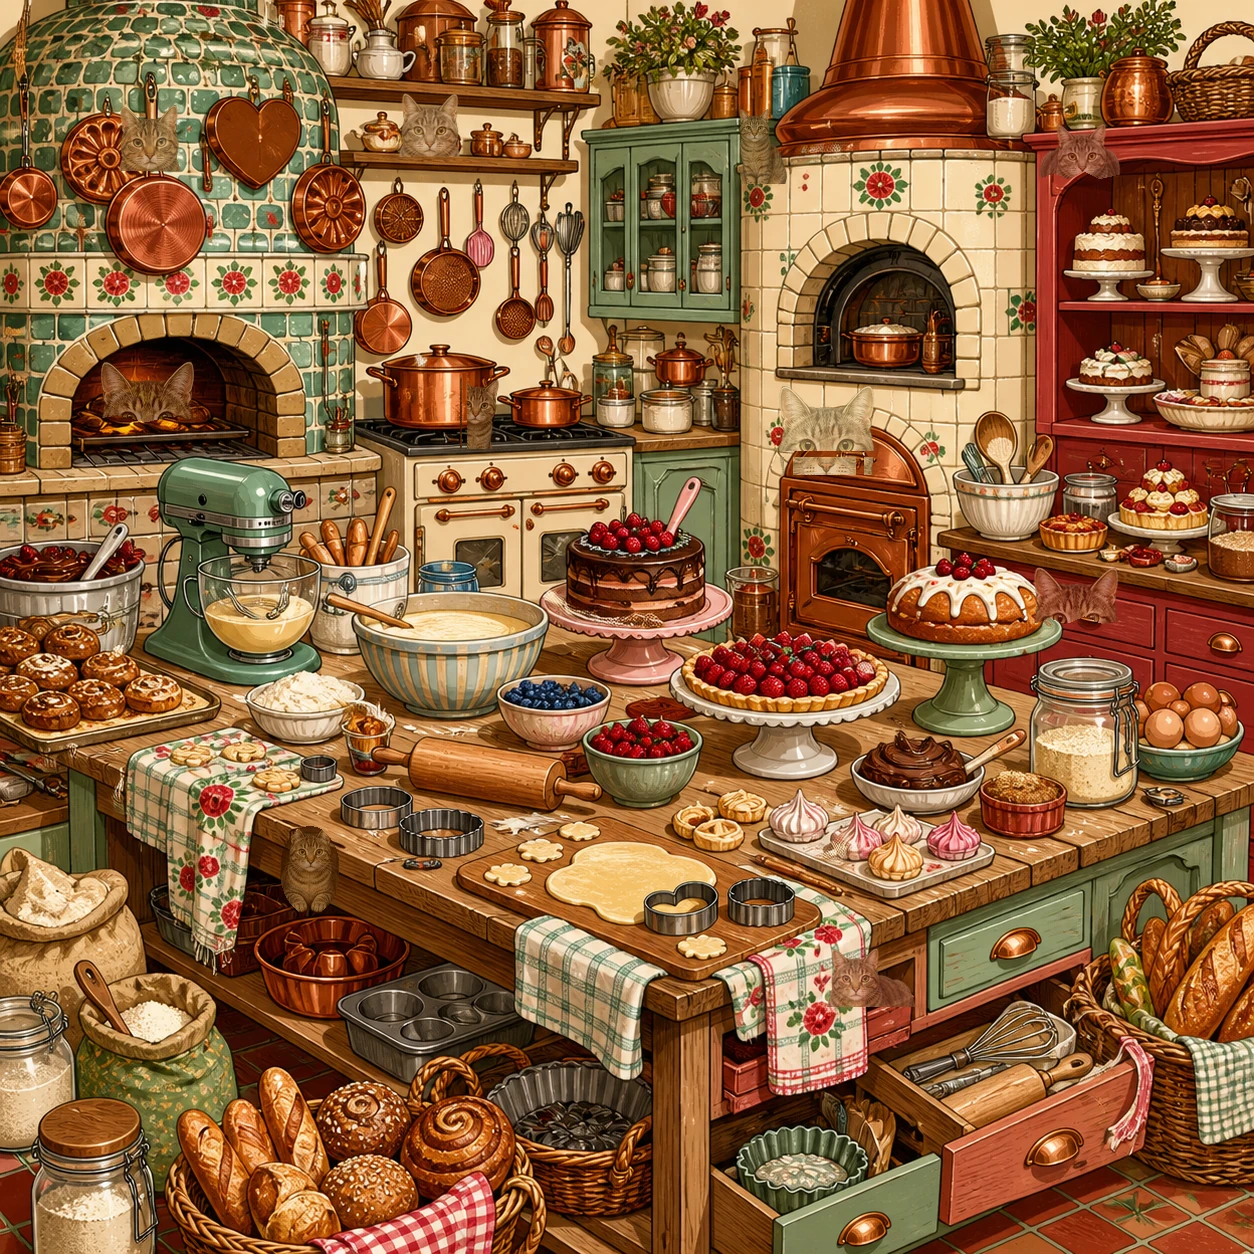
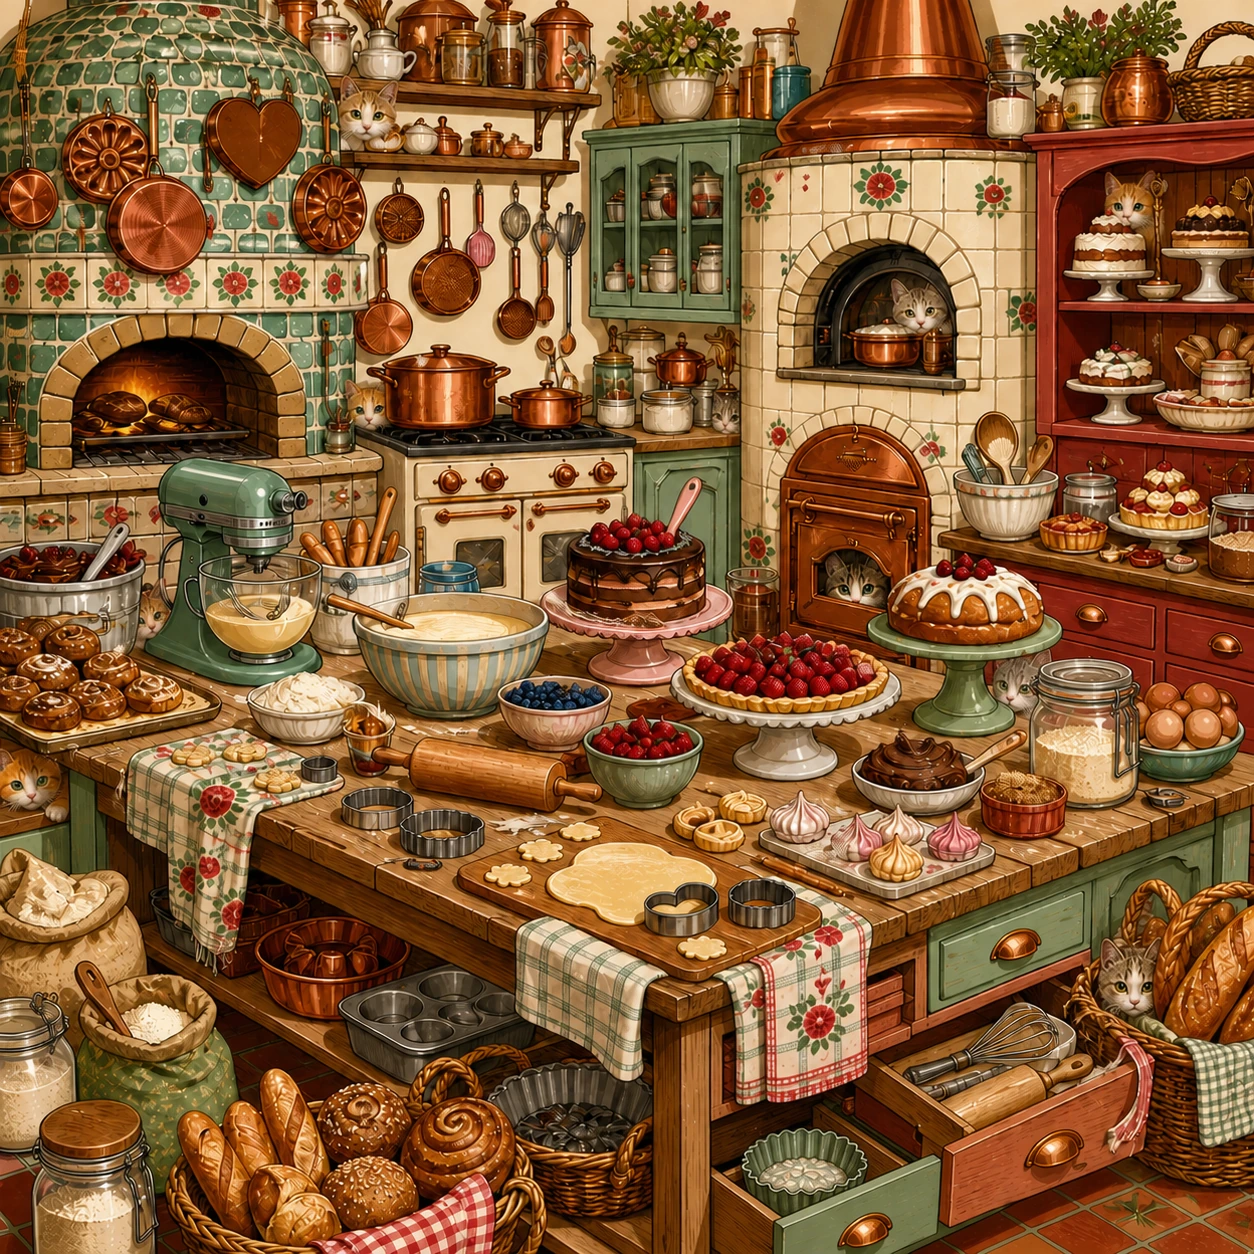
Rebuild review levels 64 to 67

diff --git a/app.js b/app.js
@@ -130,7 +130,7 @@ const levelCatalog = [
   ,{ file: "next-19", name: "Lunar Control Laboratory", isColor: true, cats: [{"x":0.116,"y":0.11,"hitX":0.0387,"hitY":0.0383,"clipX":0.0337,"clipY":0.0333},{"x":0.3413,"y":0.0957,"hitX":0.0399,"hitY":0.0375,"clipX":0.0349,"clipY":0.0325},{"x":0.6077,"y":0.1128,"hitX":0.035,"hitY":0.0419,"clipX":0.03,"clipY":0.0369},{"x":0.8612,"y":0.1248,"hitX":0.0447,"hitY":0.035,"clipX":0.0397,"clipY":0.03},{"x":0.1176,"y":0.3122,"hitX":0.0515,"hitY":0.0363,"clipX":0.0465,"clipY":0.0313},{"x":0.3904,"y":0.3305,"hitX":0.035,"hitY":0.0435,"clipX":0.03,"clipY":0.0385},{"x":0.6595,"y":0.3469,"hitX":0.0519,"hitY":0.0479,"clipX":0.0469,"clipY":0.0429},{"x":0.8589,"y":0.4745,"hitX":0.0471,"hitY":0.0351,"clipX":0.0421,"clipY":0.0301},{"x":0.2388,"y":0.6938,"hitX":0.0355,"hitY":0.0471,"clipX":0.0305,"clipY":0.0421},{"x":0.6862,"y":0.7755,"hitX":0.0483,"hitY":0.0355,"clipX":0.0433,"clipY":0.0305}] }
   ,{ file: "next-20", name: "Lantern Bazaar", isColor: true, cats: [{"x":0.116,"y":0.11,"hitX":0.0387,"hitY":0.0383,"clipX":0.0337,"clipY":0.0333},{"x":0.3413,"y":0.0957,"hitX":0.0399,"hitY":0.0375,"clipX":0.0349,"clipY":0.0325},{"x":0.6077,"y":0.1128,"hitX":0.035,"hitY":0.0419,"clipX":0.03,"clipY":0.0369},{"x":0.8612,"y":0.1248,"hitX":0.0447,"hitY":0.035,"clipX":0.0397,"clipY":0.03},{"x":0.1176,"y":0.3122,"hitX":0.0515,"hitY":0.0363,"clipX":0.0465,"clipY":0.0313},{"x":0.3904,"y":0.3305,"hitX":0.035,"hitY":0.0435,"clipX":0.03,"clipY":0.0385},{"x":0.6595,"y":0.3469,"hitX":0.0519,"hitY":0.0479,"clipX":0.0469,"clipY":0.0429},{"x":0.8589,"y":0.4745,"hitX":0.0471,"hitY":0.0351,"clipX":0.0421,"clipY":0.0301},{"x":0.2388,"y":0.6938,"hitX":0.0355,"hitY":0.0471,"clipX":0.0305,"clipY":0.0421},{"x":0.6862,"y":0.7755,"hitX":0.0483,"hitY":0.0355,"clipX":0.0433,"clipY":0.0305}] }
 ].map(level => {
-  const assetVersion = ["next-01", "next-02", "next-03", "next-04", "next-05", "next-06", "next-07", "next-08"].includes(level.file) ? "?v=reviewed-56-63-v2" : "";
+  const assetVersion = ["next-01", "next-02", "next-03", "next-04", "next-05", "next-06", "next-07", "next-08", "next-09", "next-10", "next-11", "next-12"].includes(level.file) ? "?v=reviewed-56-67-v3" : "";
   return { ...level, image: `assets/levels/${level.file}.webp${assetVersion}`, answer: `assets/levels/${level.file}-answer.webp${assetVersion}` };
 });
 
@@ -143,6 +143,16 @@ const REVIEWED_CATS_59_63 = {
 };
 levelCatalog.forEach(level => {
   if (REVIEWED_CATS_59_63[level.file]) level.cats = REVIEWED_CATS_59_63[level.file];
+});
+
+const REVIEWED_CATS_64_67 = {
+  "next-09": [{"x":0.3206,"y":0.1683,"hitX":0.04,"hitY":0.04,"clipX":0.0303,"clipY":0.0271},{"x":0.7512,"y":0.2887,"hitX":0.04,"hitY":0.04,"clipX":0.0303,"clipY":0.0271},{"x":0.0885,"y":0.3868,"hitX":0.04,"hitY":0.04,"clipX":0.0319,"clipY":0.0287},{"x":0.496,"y":0.5327,"hitX":0.04,"hitY":0.04,"clipX":0.0319,"clipY":0.0287},{"x":0.0885,"y":0.6204,"hitX":0.04,"hitY":0.04,"clipX":0.0335,"clipY":0.0287},{"x":0.4537,"y":0.6754,"hitX":0.04,"hitY":0.04,"clipX":0.0303,"clipY":0.0271},{"x":0.1651,"y":0.7504,"hitX":0.04,"hitY":0.04,"clipX":0.0319,"clipY":0.0271},{"x":0.8054,"y":0.7049,"hitX":0.04,"hitY":0.04,"clipX":0.0319,"clipY":0.0287},{"x":0.0223,"y":0.4641,"hitX":0.04,"hitY":0.04,"clipX":0.0303,"clipY":0.0271},{"x":0.9697,"y":0.5423,"hitX":0.04,"hitY":0.04,"clipX":0.0303,"clipY":0.0271}],
+  "next-10": [{"x":0.4171,"y":0.1986,"hitX":0.04,"hitY":0.04,"clipX":0.0351,"clipY":0.0303},{"x":0.6938,"y":0.2337,"hitX":0.04,"hitY":0.04,"clipX":0.0319,"clipY":0.0287},{"x":0.9306,"y":0.2919,"hitX":0.04,"hitY":0.04,"clipX":0.0303,"clipY":0.0271},{"x":0.1874,"y":0.5255,"hitX":0.04,"hitY":0.04,"clipX":0.0351,"clipY":0.0303},{"x":0.2727,"y":0.4442,"hitX":0.04,"hitY":0.04,"clipX":0.0303,"clipY":0.0271},{"x":0.5534,"y":0.5415,"hitX":0.04,"hitY":0.04,"clipX":0.0335,"clipY":0.0287},{"x":0.1292,"y":0.4904,"hitX":0.04,"hitY":0.04,"clipX":0.0303,"clipY":0.0271},{"x":0.9442,"y":0.6021,"hitX":0.04,"hitY":0.04,"clipX":0.0351,"clipY":0.0319},{"x":0.8254,"y":0.6515,"hitX":0.04,"hitY":0.04,"clipX":0.0303,"clipY":0.0271},{"x":0.3301,"y":0.8708,"hitX":0.04,"hitY":0.04,"clipX":0.0383,"clipY":0.0335}],
+  "next-11": [{"x":0.2911,"y":0.0893,"hitX":0.04,"hitY":0.04,"clipX":0.0351,"clipY":0.0319},{"x":0.8979,"y":0.1651,"hitX":0.04,"hitY":0.04,"clipX":0.0335,"clipY":0.0303},{"x":0.7225,"y":0.2472,"hitX":0.04,"hitY":0.04,"clipX":0.0351,"clipY":0.0319},{"x":0.2943,"y":0.3262,"hitX":0.04,"hitY":0.04,"clipX":0.0319,"clipY":0.0287},{"x":0.5774,"y":0.3357,"hitX":0.04,"hitY":0.04,"clipX":0.0271,"clipY":0.0255},{"x":0.6786,"y":0.4633,"hitX":0.04,"hitY":0.04,"clipX":0.0335,"clipY":0.0303},{"x":0.1204,"y":0.4928,"hitX":0.04,"hitY":0.04,"clipX":0.0303,"clipY":0.0271},{"x":0.8054,"y":0.5455,"hitX":0.04,"hitY":0.04,"clipX":0.0319,"clipY":0.0287},{"x":0.0223,"y":0.6268,"hitX":0.04,"hitY":0.04,"clipX":0.0351,"clipY":0.0303},{"x":0.8947,"y":0.7791,"hitX":0.04,"hitY":0.04,"clipX":0.0367,"clipY":0.0335}],
+  "next-12": [{"x":0.0646,"y":0.0415,"hitX":0.04,"hitY":0.04,"clipX":0.0335,"clipY":0.0303},{"x":0.1699,"y":0.3676,"hitX":0.04,"hitY":0.04,"clipX":0.0335,"clipY":0.0303},{"x":0.5742,"y":0.3413,"hitX":0.04,"hitY":0.04,"clipX":0.0303,"clipY":0.0271},{"x":0.9099,"y":0.3126,"hitX":0.04,"hitY":0.04,"clipX":0.0335,"clipY":0.0303},{"x":0.189,"y":0.6276,"hitX":0.04,"hitY":0.04,"clipX":0.0303,"clipY":0.0271},{"x":0.7911,"y":0.571,"hitX":0.04,"hitY":0.04,"clipX":0.0319,"clipY":0.0287},{"x":0.5662,"y":0.4944,"hitX":0.04,"hitY":0.04,"clipX":0.0271,"clipY":0.0239},{"x":0.6108,"y":0.7065,"hitX":0.04,"hitY":0.04,"clipX":0.0383,"clipY":0.0335},{"x":0.0758,"y":0.8293,"hitX":0.04,"hitY":0.04,"clipX":0.0351,"clipY":0.0319},{"x":0.7887,"y":0.9075,"hitX":0.04,"hitY":0.04,"clipX":0.0319,"clipY":0.0287}]
+};
+levelCatalog.forEach(level => {
+  if (REVIEWED_CATS_64_67[level.file]) level.cats = REVIEWED_CATS_64_67[level.file];
 });
 
 // Fixed shuffle: varied on first load, stable across refreshes so saved progress stays meaningful.

diff --git a/index.html b/index.html
@@ -100,6 +100,6 @@
       </section>
     </div>
 
-    <script src="app.js?v=reviewed-56-63-v17"></script>
+    <script src="app.js?v=reviewed-56-67-v18"></script>
   </body>
 </html>

diff --git a/PROJECT_STATUS.md b/PROJECT_STATUS.md
@@ -163,6 +163,12 @@ review the 75-level catalog before doing more expansion.
 - The batch follows the approved level 56-58 standard: varied partial poses,
   scene-object occlusion, clear faces, and no rectangular pasted-cat layers.
 
+### Review rebuild 64-67
+
+- Levels 64-67 (`next-09` through `next-12`) were rebuilt as ten-cat scenes.
+- Player and answer assets are 1254 x 1254 and share the same cat geometry.
+- Level 64 uses two approved deterministic hidden-cat additions to reach exactly ten.
+
 ## Recovery roadmap
 
 1. Define the desired player experience and a small set of puzzle acceptance
